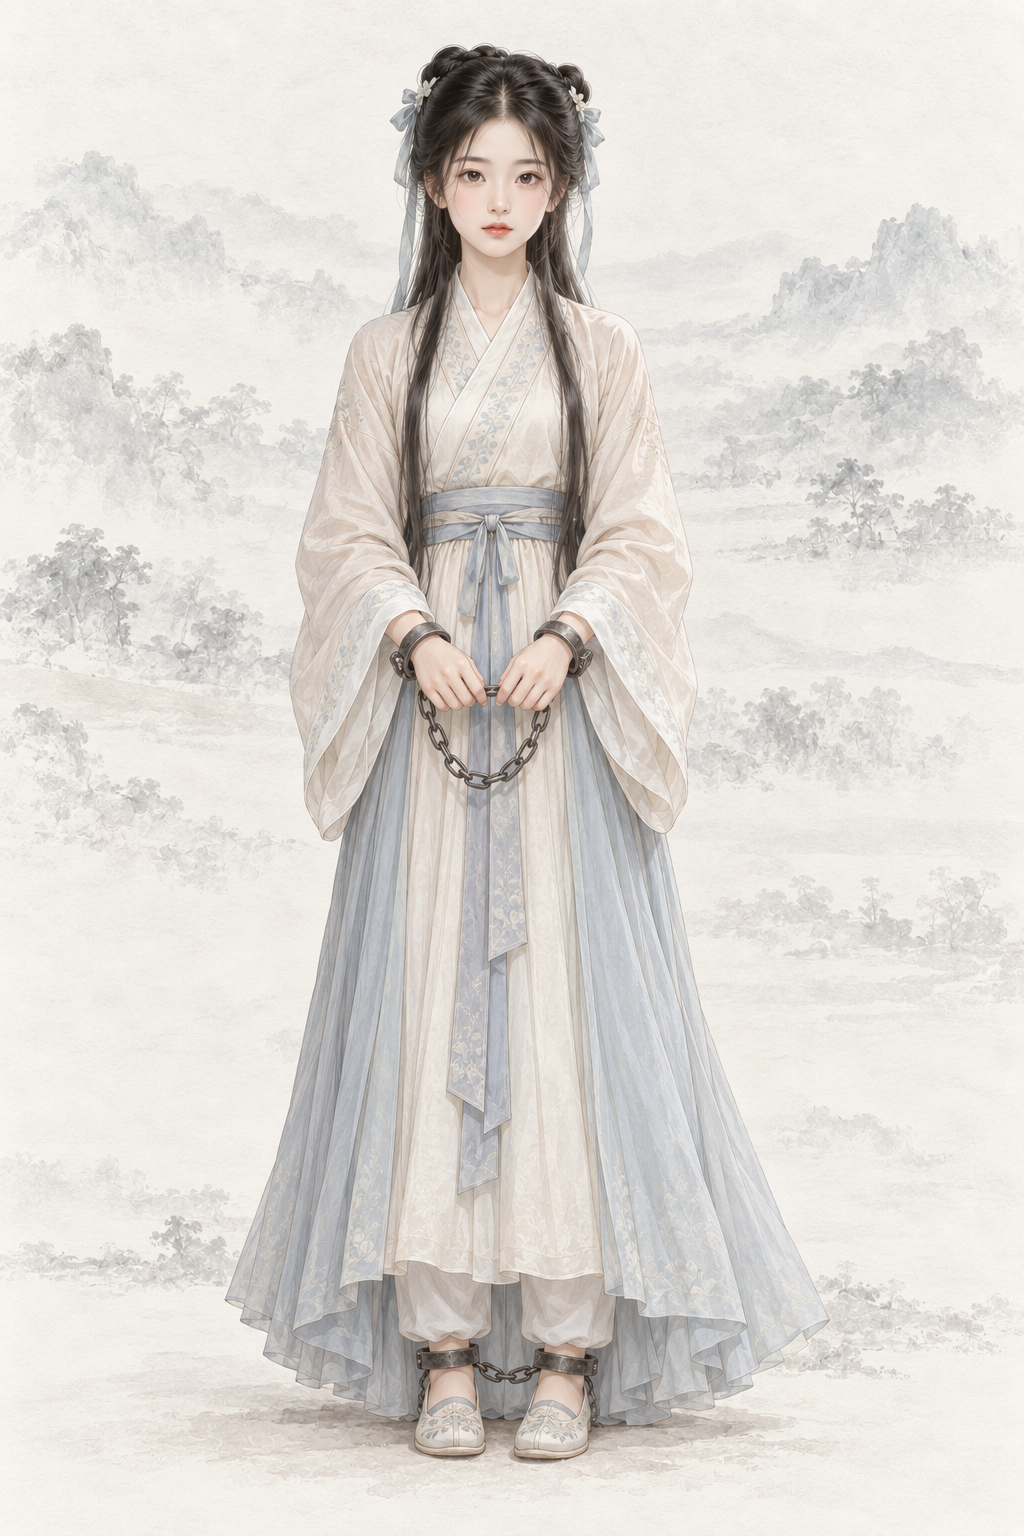
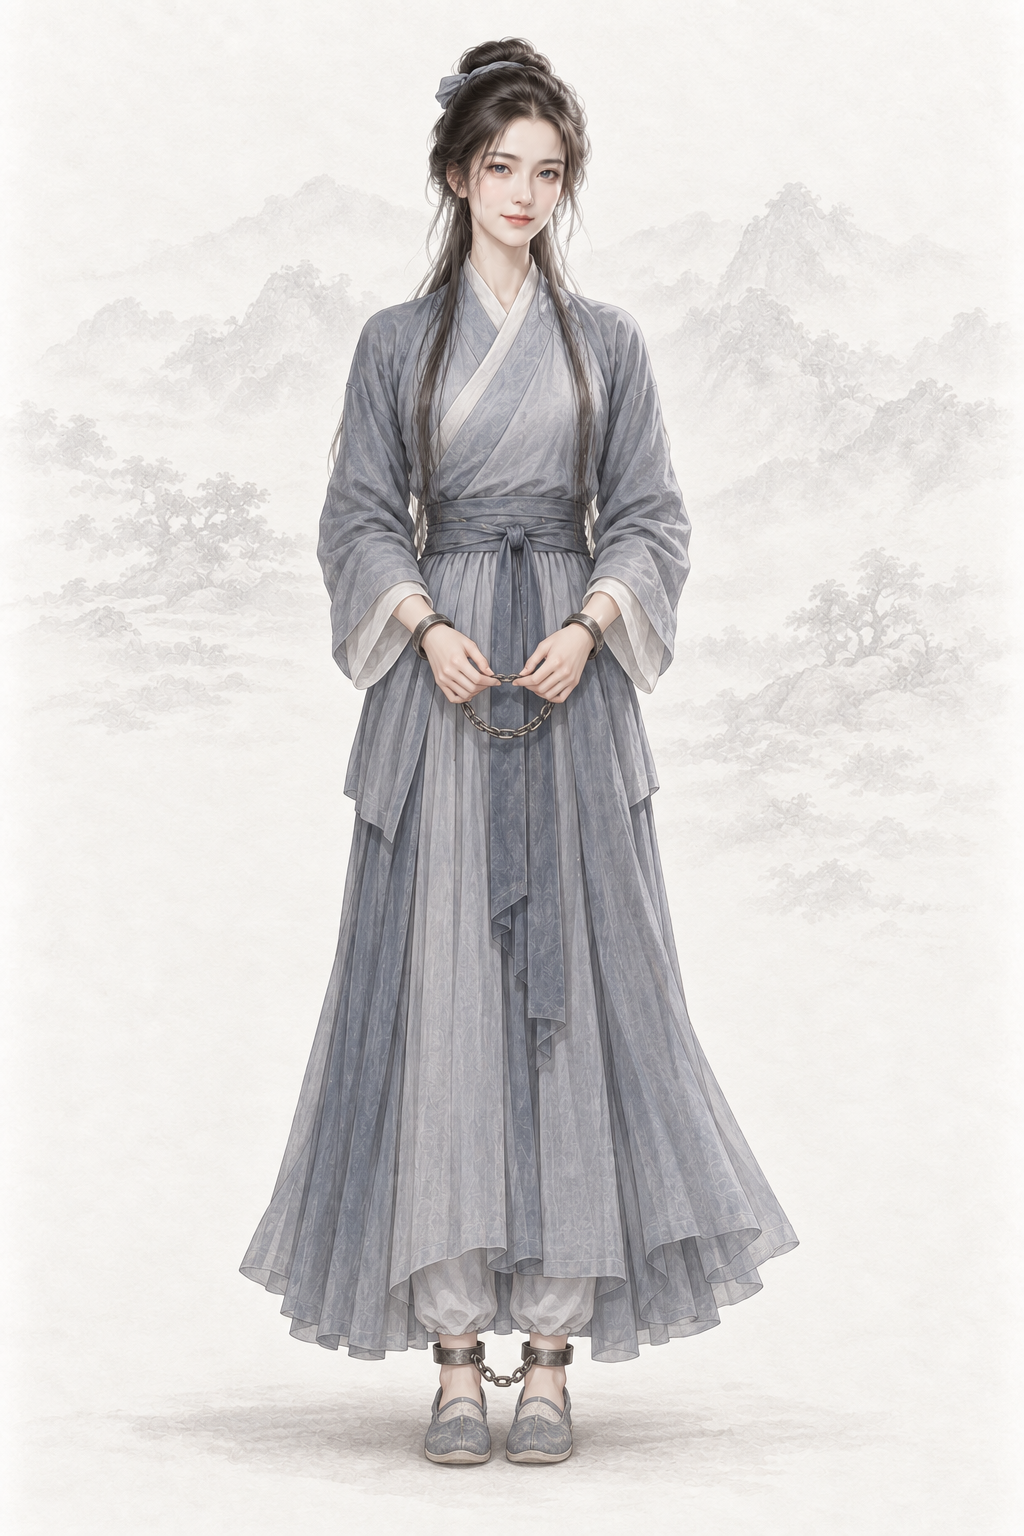
assets(character): por_npc_xiaozhao__ch04_youth_chained_base 小昭（codex）
AR-31：按经典影视造型以文字改写；上传本轮新出的黛绮丝真容作母女相似参考

diff --git a/assets/default/prompts/characters/ch04-yitian/npc_xiaozhao.md b/assets/default/prompts/characters/ch04-yitian/npc_xiaozhao.md
@@ -19,11 +19,33 @@ redo_reason: "作者点名：现图是娃娃脸白裙少女、毫无波斯血统
 reference_upload:
 - assets/default/character/female/ch04/por_npc_daiqisi__ch04_prime_longwang_base.png
 - assets/default/baseline/character/female/ref_npc_wangyuyan__ch01_base01.png
+codex_prompt_rev: 2026-10-02
 ---
 
 # 小昭 · 人物写实修正
 
 ## Gemini 提示词
+
+> 2026-10-02 AR-31 改写（1 号出图员，codex exec · image_gen 出图）：重要人物借鉴经典影视造型，只写成文字——不写演员名、不上传剧照、原创面孔；主角和美人画得好看，去 AI 味，禁止幼态。出图时上传两张同性别基线立绘作画风参考（放在最后）；第 1 张为身份参考（por_npc_daiqisi__ch04_prime_longwang_base.png）。审核组原稿保留在下一节作历史。
+
+```text
+生成一张 2:3 竖幅全身人物立绘：单人、单一视角、完整全身——头顶、双手、双脚和手中器物的两端都在画面内，四周留出自然空白；人物站姿自然，身体基本朝向正面，头部端正（不歪头、不仰不俯），镜头平视。
+【画风】写实手绘古风人物插画，与本项目写实武侠角色立绘同一画风，像功力深厚的画师用细腻笔触画出的真实美人。手绘插画质感，不是 CG 渲染：不要过度光滑的皮肤、完美对称的五官、塑料高光、过度锐利的发丝；保留自然的笔触和细微不完美。肌肤细腻自然，看得见极细的肤理和自然的左右不对称，不磨皮、不油亮、不打粉；头发是一缕缕自然的发丝和少量碎发；布料看得出经纬纹理、厚薄和自然垂坠的褶皱，干净完整；整体设色低饱和、雅致；柔和的自然光从左上方照来，明暗过渡自然，不打舞台光、轮廓光或美颜柔光。不是照片，不是三维渲染，不是动漫或游戏 CG，也不是油画（没有厚涂笔触和画布纹理）。
+【背景】不透明的暖浅灰色纸底，只在远处有极淡的水墨远山和薄雾，大面积留白；人物与背景明暗分明、轮廓边缘干净完整（后续要自动抠图），水墨和纸纹只在背景里，不侵入人物和衣服；脚下只有很淡的一点接触阴影。
+【人物】小昭，《倚天屠龙记》黛绮丝之女，明教光明顶上被锁着手足铁链的侍女；光明顶密道中现出真容、铁链尚未解开的阶段。温柔聪慧、恭顺体贴，心里却极有主见；日后会成为波斯明教圣女。
+【身份参考】随提示词上传的第 1 张图是她的母亲黛绮丝：只借母女相似的眉眼、高鼻和面部轮廓（约六七分像）；她比母亲年轻二十岁，脸更小、更柔，是瓜子脸。不要照搬母亲的紫衫、年龄与姿势。
+【年龄与体态】原著年纪还小，按本作规定画成约二十岁的成年年轻女子，身材纤秀。成年女性的五官骨相与身体比例（约 7 头身），衣着完整端庄、不透明、不暴露、不性感化。
+【经典造型】借鉴经典武侠影视里这个角色深入人心的造型，只取发型、装束、配色、标志道具、气质和脸型类型，用原创面孔画出来，不像任何真实演员：朴素青衣的侍女，乌发挽成简单的低髻、系青布带，手腕和脚踝间连着细细的铁链；温柔乖巧、楚楚动人，眼里藏着聪慧和深情，一笑梨涡浅现。
+【面容】原著写她双目湛湛有神、修眉端鼻、颊边微现梨涡，肤色奇白，鼻子比一般女子高，眼睛里隐隐有海水的蓝意，是清秀绝俗的瓜子脸。具体为：成年骨相的瓜子脸，下颌柔和；修长的眉毛；鼻梁比汉族女子高挺秀气；一双湛湛有神的眼睛，深棕瞳色里透出淡淡的海水蓝（混血标志，清楚但自然）；樱桃小口、唇色淡红，颊边一个浅浅的梨涡；肌肤雪白细腻；乌发带一点自然的微卷。以汉人面貌为主，带一点波斯血统的立体感。美丽动人、清秀绝俗，让人一见就心生怜爱。
+【发式】乌发在脑后挽成一个简单的低髻，用青布带束住，鬓边几缕微卷的碎发。
+【服饰】朴素的青灰色侍女衣裙：交领右衽窄袖短袄，青灰长裙（裙内有长裤），布腰带，平底布鞋；干净整洁。
+【道具】两只手腕之间连着一段细铁链、两只脚踝之间也连着一段细铁链，铁环朴素，链条松松下垂，可以小步行走；不勒伤、不悬吊。
+【姿态与神情】正面站立，双手轻轻托着腕间的铁链；神情温柔恭顺中透着聪慧，嘴角浅浅含笑，梨涡隐现。
+【不要】画面里不要任何文字、题款、印章、签名、水印、边框、分格或多视图；不要第二个人；不要幼态（童颜、娃娃脸、婴儿肥、儿童或少年身材、大头小身）；不要塑料感皮肤、磨皮美颜、网红脸（尖下巴大眼高鼻的模板脸）、过度对称、浓妆、偶像式打光、蜡像感；不要照片质感、三维渲染或动漫大眼；不要像任何真实演员或明星；不要歪头、斜镜头；不要多指、缺指（设定的伤残除外）、手与器物粘连或悬空；汉式交领必须右衽（穿着者的左襟压在右襟上），不要左衽（设定为少数民族服制的除外），不要水平镜像；不要现代物品、发光特效、法阵或能量光。不要娃娃脸、少女或儿童身材、双丫髻；不要白色仙女长裙；不要金发碧眼的外国人；不要浓妆；不要驼背歪嘴的伪装形象；不要圣火令、教主冠服。
+【画风基线】随提示词上传的参考图里，最后两张是本项目的立绘画风基线：只参考它们的画风、用色、光线、质感和暖浅灰纸底加淡水墨的背景处理，整体画风必须与它们一致——精细写实的数字手绘插画，不是油画，不要厚涂笔触和画布纹理。参考图只取画风、光线、质感和背景处理，不取长相：不要照搬基线图里人物的长相、年龄、发型、服饰和姿势。
+```
+
+## 审核组 Gemini 提示词（2026-10-02 AR-30 重审稿；AR-31 改写前，历史，不再用于出图）
 
 > 2026-10-02 重要人物立绘重审（A 组，`tools/agents/reports/REVIEW-portraits-A-ch00-04.md`）：**整体重出**。作者点名：现图是娃娃脸白裙少女、毫无波斯血统特征；按原著“高鼻雪肤、眼中隐有海水之蓝、修眉端鼻、颊边梨涡、瓜子脸”画成成年混血女子，上传黛绮丝真容作母女相似参考。
 > 上传参考只按 frontmatter `reference_upload`（共 1 张，按顺序上传）；frontmatter 的 `references` 与本节以下内容是旧出图管线的历史记录，不再用于出图。
